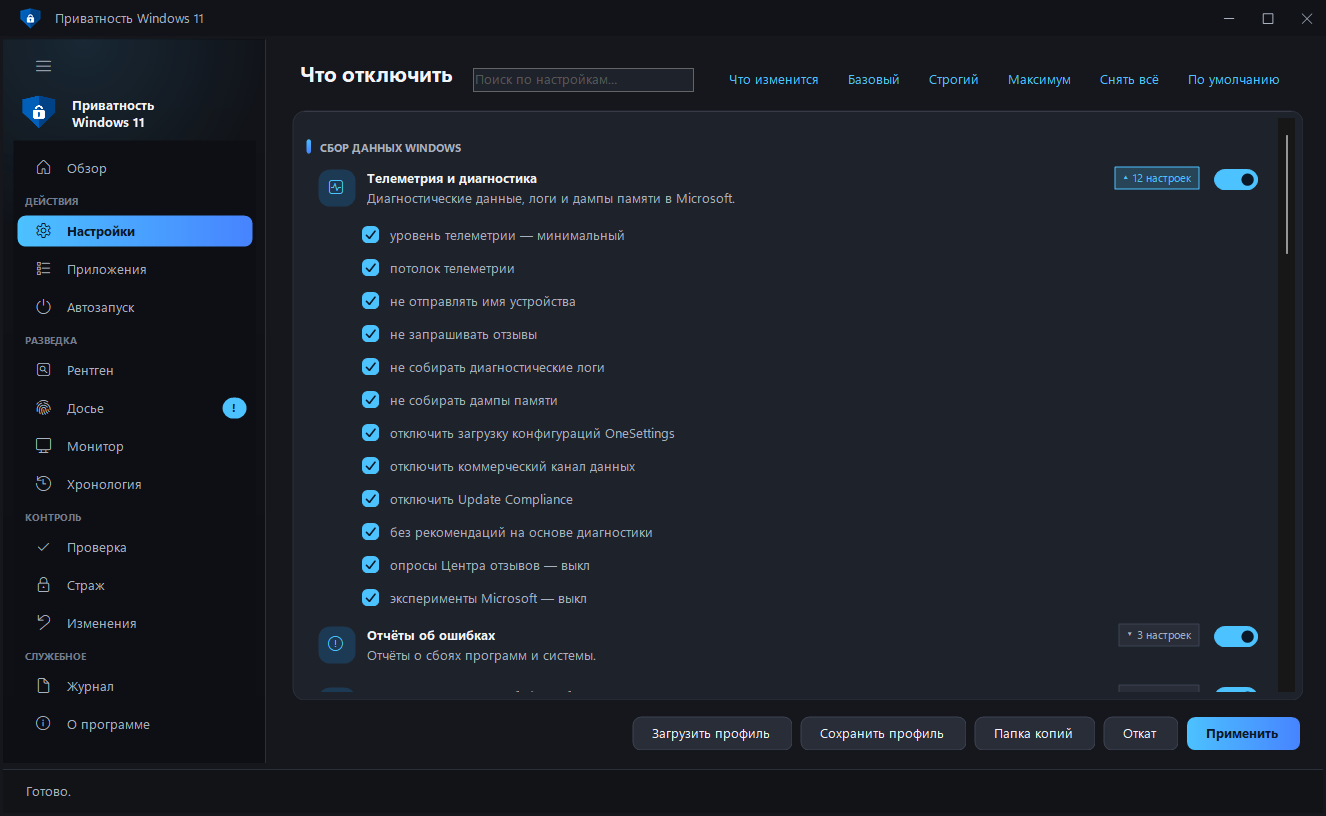
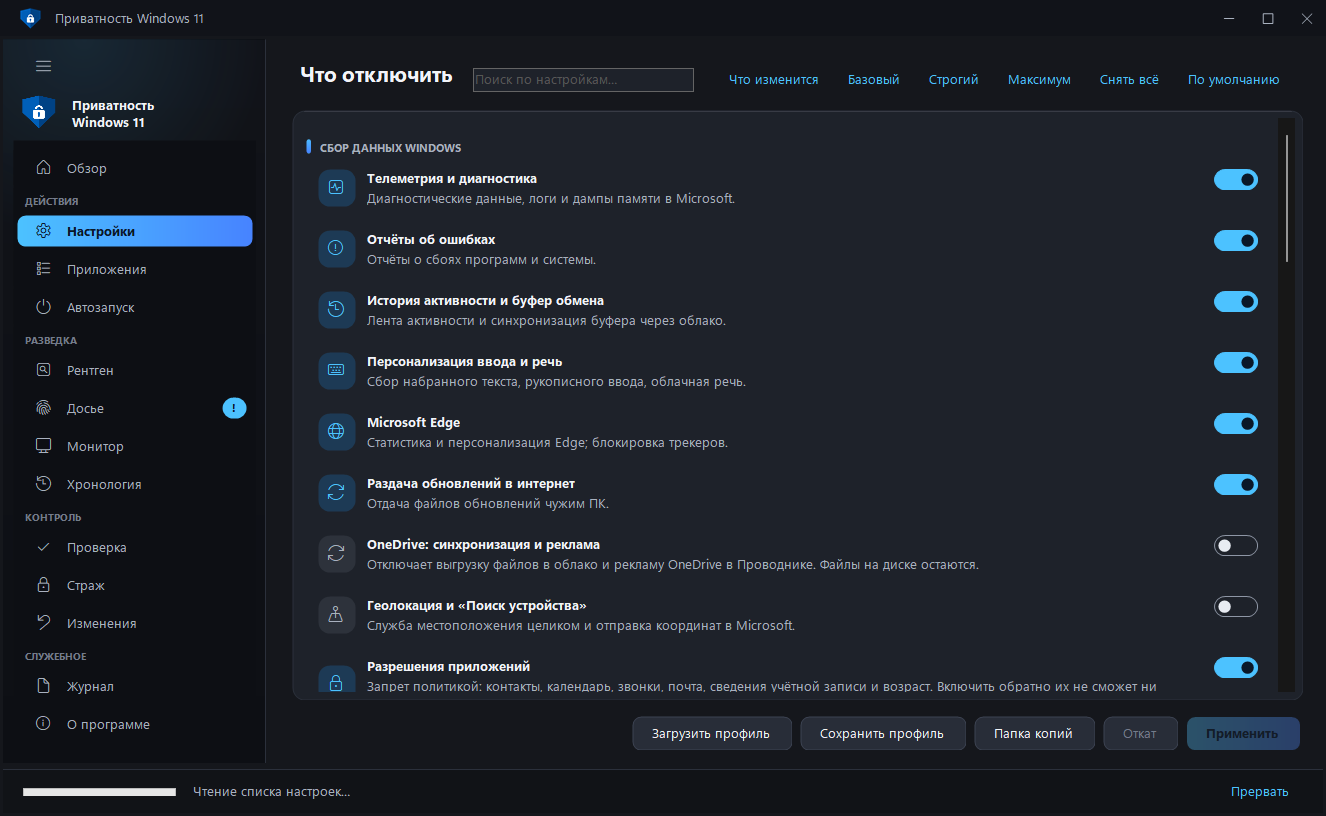
1.10.0: разрешения приложений политикой, фоновые обращения в сеть, всё, что нашлось при разборе Windows
Опись системы (службы, задачи, сборщики трассировки, разрешения, пакеты,
политики, живые соединения) сверена с движком и с официальным списком
Microsoft «Manage connections from Windows OS components to Microsoft
services»: из 84 эталонных пунктов движок закрывал 24. Добавлено 53
настройки — 191 -> 244, модулей 27 -> 30.

- «Разрешения приложений»: 16 политик AppPrivacy (контакты, календарь,
  звонки, почта, сообщения, задачи, уведомления, радио, голос...). Политика,
  в отличие от переключателя, не возвращается ни приложением, ни обновлением.
  Сюда же — сведения учётной записи: без этого права новые Windows Age API
  не отдают приложению возраст пользователя.
- «Камера, микрофон и фон приложений» — отдельно и выключено по умолчанию:
  без них приложения из магазина теряют эти функции.
- «Фоновые обращения в сеть» — 12 безопасных пунктов из списка Microsoft:
  метаданные устройств, шрифты, карты, модели дисков и речи, Teredo, Wi-Fi Sense.
- Телеметрия совместимости: CEIP, опись программ, AIT, Steps Recorder и
  задача «Microsoft Compatibility Appraiser Exp», которая запускала
  compattelrunner мимо движка. Плюс 9 новых задач отчётов об использовании
  функций (Flighting\FeatureConfig\UsageData*, SustainabilityTelemetry...).
- Мелочи Windows 11: отслеживание запусков в Пуске, «предлагаемые действия»
  буфера, история поиска в Параметрах, рукописный ввод, «Получите больше
  от Windows», местоположение политикой.
[…]

diff --git a/Lang.cs b/Lang.cs
@@ -35,12 +35,15 @@ namespace Win11Privacy
             if (_map == null) Build();
             string v;
             if (_map.TryGetValue(ru, out v)) return v;
+            // Имена задач планировщика движок собирает сам: «задача » + имя
+            // задачи. Имя и так английское — переводится только приставка.
+            if (ru.StartsWith("задача ") && _map.TryGetValue("задача ", out v)) return v + ru.Substring(7);
             return ru;
         }
 
         private static void Build()
         {
-            _map = new Dictionary<string, string>(1099, StringComparer.Ordinal);
+            _map = new Dictionary<string, string>(1170, StringComparer.Ordinal);
             _map[" ч"] = " h";
             _map[" МБ"] = " MB";
             _map[" ч "] = " h ";
@@ -1140,6 +1143,77 @@ namespace Win11Privacy
             _map["Copilot (компонент)"] = "Copilot (component)";
             _map["Новый Outlook"] = "New Outlook";
             _map["Записки"] = "Sticky Notes";
+            _map["Разрешения приложений"] = "App permissions";
+            _map["Запрет политикой: контакты, календарь, звонки, почта, сведения учётной записи и возраст. Включить обратно их не сможет ни приложение, ни обновление."] = "Blocked by policy: contacts, calendar, calls, email, account information and age. Neither an app nor an update can switch them back on.";
+            _map["Фоновые обращения в сеть"] = "Background network calls";
+            _map["Метаданные устройств, шрифты, карты, модели дисков и речи, Teredo — то, что Windows скачивает и отправляет сама."] = "Device metadata, fonts, maps, disk and speech models, Teredo — what Windows downloads and sends by itself.";
+            _map["Камера, микрофон и фон приложений"] = "Camera, microphone and background apps";
+            _map["Запрет приложениям из магазина: камера и микрофон перестанут в них работать, фоновые задачи тоже. Браузеры и обычные программы не затрагивает."] = "Blocks Store apps: camera and microphone stop working in them, and so do background tasks. Browsers and regular programs are not affected.";
+            _map["ИИ-модели Windows"] = "Windows AI models";
+            _map["Ключи доступа (passkeys)"] = "Passkeys";
+            _map["Перечень ключей доступа"] = "Passkey list";
+            _map["USB-устройства"] = "USB devices";
+            _map["COM-порты"] = "COM ports";
+            _map["Данные о сетях Wi-Fi"] = "Wi-Fi network data";
+            _map["Отслеживание взгляда"] = "Eye tracking";
+            _map["программа улучшения качества (CEIP) — выкл"] = "Customer Experience Improvement Program (CEIP) — off";
+            _map["телеметрия совместимости приложений — выкл"] = "app compatibility telemetry — off";
+            _map["опись установленных программ — выкл"] = "inventory of installed programs — off";
+            _map["запись действий пользователя (Steps Recorder) — выкл"] = "user action recording (Steps Recorder) — off";
+            _map["персонализация по диагностике — запрет политикой"] = "tailored experiences from diagnostics — blocked by policy";
+            _map["«Получите больше от Windows» после обновлений — выкл"] = "\"Get even more out of Windows\" after updates — off";
+            _map["Пуск: не отслеживать запуск программ"] = "Start: do not track program launches";
+            _map["буфер обмена: «предлагаемые действия» — выкл"] = "clipboard: \"suggested actions\" — off";
+            _map["не отправлять образцы рукописного ввода"] = "do not send handwriting samples";
+            _map["не отправлять отчёты об ошибках распознавания рукописи"] = "do not send handwriting recognition error reports";
+            _map["история поиска на устройстве (Параметры) — выкл"] = "search history on this device (Settings) — off";
+            _map["приложениям запрещено местоположение (политика)"] = "location blocked for apps (policy)";
+            _map["сведения учётной записи и возраст (Age API) — запрещены"] = "account information and age (Age API) — blocked";
+            _map["контакты — запрещены приложениям"] = "contacts — blocked for apps";
+            _map["календарь — запрещён приложениям"] = "calendar — blocked for apps";
+            _map["журнал звонков — запрещён приложениям"] = "call history — blocked for apps";
+            _map["почта — запрещена приложениям"] = "email — blocked for apps";
+            _map["сообщения — запрещены приложениям"] = "messaging — blocked for apps";
+            _map["звонки — запрещены приложениям"] = "phone calls — blocked for apps";
+            _map["задачи и планы — запрещены приложениям"] = "tasks — blocked for apps";
+            _map["чтение уведомлений — запрещено приложениям"] = "reading notifications — blocked for apps";
+            _map["данные о движении — запрещены приложениям"] = "motion data — blocked for apps";
+            _map["управление радиомодулями — запрещено приложениям"] = "radio control — blocked for apps";
+            _map["обмен с устройствами — запрещён приложениям"] = "syncing with devices — blocked for apps";
+            _map["доверенные устройства — запрещены приложениям"] = "trusted devices — blocked for apps";
+            _map["диагностика других приложений — запрещена"] = "diagnostics of other apps — blocked";
+            _map["голосовая активация приложений — запрещена"] = "voice activation of apps — blocked";
+            _map["голосовая активация на экране блокировки — запрещена"] = "voice activation on the lock screen — blocked";
+            _map["камера — запрещена приложениям из магазина"] = "camera — blocked for Store apps";
+            _map["микрофон — запрещён приложениям из магазина"] = "microphone — blocked for Store apps";
+            _map["фоновая работа приложений из магазина — запрещена"] = "background activity of Store apps — blocked";
+            _map["не скачивать метаданные устройств"] = "do not download device metadata";
+            _map["не скачивать шрифты по требованию"] = "do not download fonts on demand";
+            _map["сборки Insider — запрет"] = "Insider builds — blocked";
+            _map["офлайн-карты: не обновлять сами"] = "offline maps: no automatic updates";
+            _map["офлайн-карты: без трафика на странице настроек"] = "offline maps: no traffic from the settings page";
+            _map["OneDrive: не выходить в сеть до входа в систему"] = "OneDrive: no network traffic before sign-in";
+            _map["не обновлять речевые модели"] = "do not update speech models";
+            _map["не скачивать модели здоровья дисков"] = "do not download disk health models";
+            _map["не синхронизировать сообщения с облаком"] = "do not sync messages with the cloud";
+            _map["облачная синхронизация сообщений — выкл"] = "cloud message sync — off";
+            _map["Teredo (туннель IPv6 через Microsoft) — выкл"] = "Teredo (IPv6 tunnel via Microsoft) — off";
+            _map["Wi-Fi Sense — выкл"] = "Wi-Fi Sense — off";
+            _map["Журналы Windows о работе с программами"] = "Windows logs about program activity";
+            _map["Уникальный ID, по которому рекламные сети узнают вас во всех приложениях."] = "A unique ID that ad networks use to recognise you across all apps.";
+            _map["MachineGuid и SQM MachineId — метки, которыми помечается телеметрия. Нужны системе, стереть нельзя."] = "MachineGuid and SQM MachineId — the tags telemetry is marked with. The system needs them; they cannot be wiped.";
+            _map["Список всех сетей, к которым подключался компьютер — по ним видно, где вы бывали. Пароли Wi-Fi не трогаются."] = "Every network the computer has joined — they show where you have been. Wi-Fi passwords are left alone.";
+            _map["Windows помнит каждую флешку и внешний диск. Запись системная, показываем для сведения."] = "Windows remembers every USB stick and external drive. The record belongs to the system; it is shown for information only.";
+            _map["ActivitiesCache.db — какие программы и документы вы открывали, с точным временем."] = "ActivitiesCache.db — which programs and documents you opened, to the exact time.";
+            _map["Ярлыки всего, что вы открывали, плюс списки переходов на панели задач."] = "Shortcuts to everything you opened, plus the jump lists on the taskbar.";
+            _map["История запросов в строке поиска Проводника."] = "History of searches in the File Explorer search box.";
+            _map["Что вы вручную набирали в адресной строке Проводника."] = "What you typed by hand into the File Explorer address bar.";
+            _map["Всё скопированное (Win+V) хранится на диске."] = "Everything you copied (Win+V) is kept on disk.";
+            _map["Дампы и отчёты о сбоях: содержат пути файлов, имена программ, куски памяти."] = "Crash dumps and reports: they contain file paths, program names and chunks of memory.";
+            _map["Слова, собранные из вашего набора и рукописного ввода."] = "Words collected from your typing and handwriting.";
+            _map["Какие программы обращались к данным и камере, что запускалось и что отправлял клиент телеметрии."] = "Which programs accessed your data and camera, what was launched and what the telemetry client sent.";
+            _map["Адреса сайтов и служб, к которым недавно обращался компьютер."] = "Addresses of sites and services the computer contacted recently.";
+            _map["задача "] = "task ";
         }
     }
 }

diff --git a/MainForm.cs b/MainForm.cs
@@ -179,6 +179,8 @@ namespace Win11Privacy
             A(S1,"delivery",L.T("Раздача обновлений в интернет"),L.T("Отдача файлов обновлений чужим ПК."),GSync,true,false,false);
             A(S1,"onedrive",L.T("OneDrive: синхронизация и реклама"),L.T("Отключает выгрузку файлов в облако и рекламу OneDrive в Проводнике. Файлы на диске остаются."),GSync,false,false,false);
             A(S1,"location",L.T("Геолокация и «Поиск устройства»"),L.T("Служба местоположения целиком и отправка координат в Microsoft."),GPin,false,false,false);
+            A(S1,"apppriv",L.T("Разрешения приложений"),L.T("Запрет политикой: контакты, календарь, звонки, почта, сведения учётной записи и возраст. Включить обратно их не сможет ни приложение, ни обновление."),GShield,true,false,false);
+            A(S1,"network",L.T("Фоновые обращения в сеть"),L.T("Метаданные устройств, шрифты, карты, модели дисков и речи, Teredo — то, что Windows скачивает и отправляет сама."),GGlobe,true,false,false);
 
             A(S2,"ads",L.T("Рекламный ID и реклама"),L.T("Реклама в Пуске, на экране блокировки и в Параметрах."),GAds,true,false,false);
             A(S2,"widgets",L.T("Виджеты и лента новостей"),L.T("Лента MSN на панели задач, которая изучает ваши интересы."),GGlobe,false,false,false);
@@ -193,6 +195,7 @@ namespace Win11Privacy
             A(S4,"buffer",L.T("Стереть неотправленную телеметрию"),L.T("Удаляет накопленный буфер C:\\ProgramData\\Microsoft\\Diagnosis."),GBroom,false,true,false);
             A(S4,"defender",L.T("Защитник: облако и образцы"),L.T("Отправка подозрительных файлов и облачная проверка MAPS. Чуть снижает защиту."),GShield,false,true,false);
             A(S4,"fwips",L.T("Блокировка адресов телеметрии"),L.T("Брандмауэр режет сами IP сбора данных — hosts телеметрия обходит. Если что-то отвалится, снимите и откатите."),GFire,false,true,false);
+            A(S4,"apphw",L.T("Камера, микрофон и фон приложений"),L.T("Запрет приложениям из магазина: камера и микрофон перестанут в них работать, фоновые задачи тоже. Браузеры и обычные программы не затрагивает."),GShield,false,true,false);
             A(S4,"doh",L.T("Запретить шифрованный DNS"),L.T("Через DoH браузеры и Windows обходят блокировку по доменам. Отключение вернёт видимость запросов провайдеру."),GGlobe,false,true,false);
 
             A(S5,"app_nvidia","NVIDIA",L.T("Телеметрия драйвера и GeForce Experience."),GApp,true,false,true);
@@ -2162,7 +2165,7 @@ namespace Win11Privacy
         private void ApplyPreset(string kind)
         {
             string[] baseMods = { "telemetry", "errors", "activity", "input", "edge", "delivery",
-                                  "ads", "search", "copilot", "ai", "cleanup" };
+                                  "ads", "search", "copilot", "ai", "cleanup", "apppriv", "network" };
             string[] strictAdd = { "widgets", "location", "onedrive", "defender", "services", "hosts" };
             int n = 0;
             foreach (ModuleDef m in _mods)

diff --git a/tools/check_lang.py b/tools/check_lang.py
@@ -50,6 +50,12 @@ ENGINE = 'Win11-Privacy-Engine.ps1'
 ENGINE_LIT = [
     re.compile(r"(?:title|what|was|now|where)\s*=\s*'([^']{3,})'"),   # факты, категории, состояния
     re.compile(r"^\s*'[^']+'\s*=\s*'([^']{3,})'\s*$", re.M),        # словари вида имя = «человеческое название»
+    # название настройки — последний строковый аргумент Def (за ним может
+    # стоять только минимальная сборка Windows)
+    re.compile(r"^Def\s+'[^']+'\s+'[^']+'.*'([^']*[А-Яа-яЁё][^']*)'(?:\s+\d+)?\s*$", re.M),
+    # пункты «Цифрового следа»: & $add 'id' 'название' 'описание'
+    re.compile(r"&\s*\$add\s+'[^']+'\s+'([^']+)'"),
+    re.compile(r"&\s*\$add\s+'[^']+'\s+'[^']+'\s+'([^']+)'"),
 ]
 CYR = re.compile(u'[Ѐ-ӿ]')
 

diff --git a/PageDossier.cs b/PageDossier.cs
@@ -237,7 +237,7 @@ namespace Win11Privacy
                 {
                     Dictionary<string, object> it = Json.Obj(o);
                     string id = Json.GetStr(it, "id");
-                    _dossierList.Controls.Add(new WipeRow(id, L.T(Json.GetStr(it, "title")), Json.GetStr(it, "what"),
+                    _dossierList.Controls.Add(new WipeRow(id, L.T(Json.GetStr(it, "title")), L.T(Json.GetStr(it, "what")),
                         Json.GetStr(it, "value"), FootGlyph(id), Json.GetBool(it, "canWipe")) { Font = this.Font });
                 }
                 _btnDossierWipe.Enabled = Json.GetInt(_lastFoot, "wipeable") > 0;

diff --git a/tools/gen_lang.py b/tools/gen_lang.py
@@ -63,6 +63,9 @@ namespace Win11Privacy
             if (_map == null) Build();
             string v;
             if (_map.TryGetValue(ru, out v)) return v;
+            // Имена задач планировщика движок собирает сам: «задача » + имя
+            // задачи. Имя и так английское — переводится только приставка.
+            if (ru.StartsWith("задача ") && _map.TryGetValue("задача ", out v)) return v + ru.Substring(7);
             return ru;
         }
 

diff --git a/AppInfo.cs b/AppInfo.cs
@@ -17,7 +17,7 @@ namespace Win11Privacy
     // ====================================================================== //
     internal static class AppInfo
     {
-        internal const string Version = "1.9.2";
+        internal const string Version = "1.10.0";
         internal const string Repo = "N0deZ3r0/Win11Privacy";
         internal const string ReleasesUrl = "https://github.com/N0deZ3r0/Win11Privacy/releases/latest";
 

diff --git a/README.md b/README.md
@@ -48,7 +48,10 @@ about you. Watches so that updates do not quietly turn the tracking back on.**
 | **Cleans up after itself** | Everything the program has accumulated about you — sensor history, log, snapshots — is visible on the "About" page and erased with one button. |
 | **ETW trace sessions** | Windows starts telemetry collectors at boot beyond the DiagTrack service — the program switches those off too. |
 | **Proof of the result** | Not "index 92%", but what it was before the program and what it is now: collectors, tasks, domains, events per day. |
-| **All app permissions** | 25 categories — not only camera and microphone, but screenshots, notifications, documents, the whole disk. Including apps that hold a permission but have not used it yet. |
+| **All app permissions** | 34 categories — not only camera and microphone, but screenshots, notifications, documents, the whole disk, passkeys and Windows AI models. Including apps that hold a permission but have not used it yet. |
+| **Permissions by policy, not by switch** | Contacts, calendar, calls, email and account information are closed by policy: neither an app nor a Windows update can switch them back on. Age is part of it — the new Windows Age APIs give an app nothing without this permission. |
+| **Background network calls** | Device metadata, on-demand fonts, offline maps, disk-health and speech models, Teredo — what Windows downloads and sends by itself. Taken from Microsoft's own list, safe items only. |
+| **Windows logs in the digital trace** | Thousands of entries about which programs ran and what they accessed — shown in the Dossier and wiped along with the rest of the trace. |
 | **One question on first run** | Instead of thirteen sections at once — "basic privacy", "strict", or "first show me what has been collected about me". The wizard applies nothing: it ticks a set and shows what will be done. |
 | **Long work is visible and can be stopped** | A "Stop" button in the status bar. Reading stops at once, applying stops after a warning — everything the engine already changed is in the journal and can be reverted on the Changes page. Closing the window mid-run asks as well, instead of leaving the engine running unseen. |
 | **The undo journal is written as it goes** | It used to be saved once, at the very end: an interrupted run left the changes in the system with nothing to revert them with. Now it hits the disk after every module and at least once every ten edits. |
@@ -56,7 +59,7 @@ about you. Watches so that updates do not quietly turn the tracking back on.**
 | **A clear error instead of the .NET dialog** | When the program trips over something, it explains what happened and writes `crash.log` you can attach to a bug report. |
 | **The guard comes right after an update** | A Windows update is what knocks the settings out, and a schedule could wait until Sunday. The guard now has a third alarm — the update installation itself: it checks the system five minutes later. |
 | **One copy of the program** | A second launch brings up the window that is already open. Two windows with administrator rights would apply settings at the same time and overwrite each other's undo journal. |
-| **You can see how far the check has got** | Verifying 191 settings takes up to half a minute and used to stay silent until the very end. Now the engine reports its progress and the window shows "15 / 34" and the name of the current section. |
+| **You can see how far the check has got** | Verifying 244 settings takes up to half a minute and used to stay silent until the very end. Now the engine reports its progress and the window shows "15 / 34" and the name of the current section. |
 | **The run log can be saved to a file** | A button on the Log page: these logs are what "it applied the wrong thing" cases are settled by, and a screenshot is no longer needed. |
 | **Keyboard and screen reader** | Tab walks the sections, Enter and Space open the selected one, and the hand-drawn controls now tell the system their names — the reader used to read emptiness. |
 
@@ -94,7 +97,7 @@ Notepad and Paint policies work on both versions and are applied as usual.
 ## Language
 
 The interface is fully available in Russian and English, including the names of
-all 191 settings and the HTML report. The language is taken from your Windows
+all 244 settings and the HTML report. The language is taken from your Windows
 settings and can be switched with a button on the "About" page.
 
 ---
